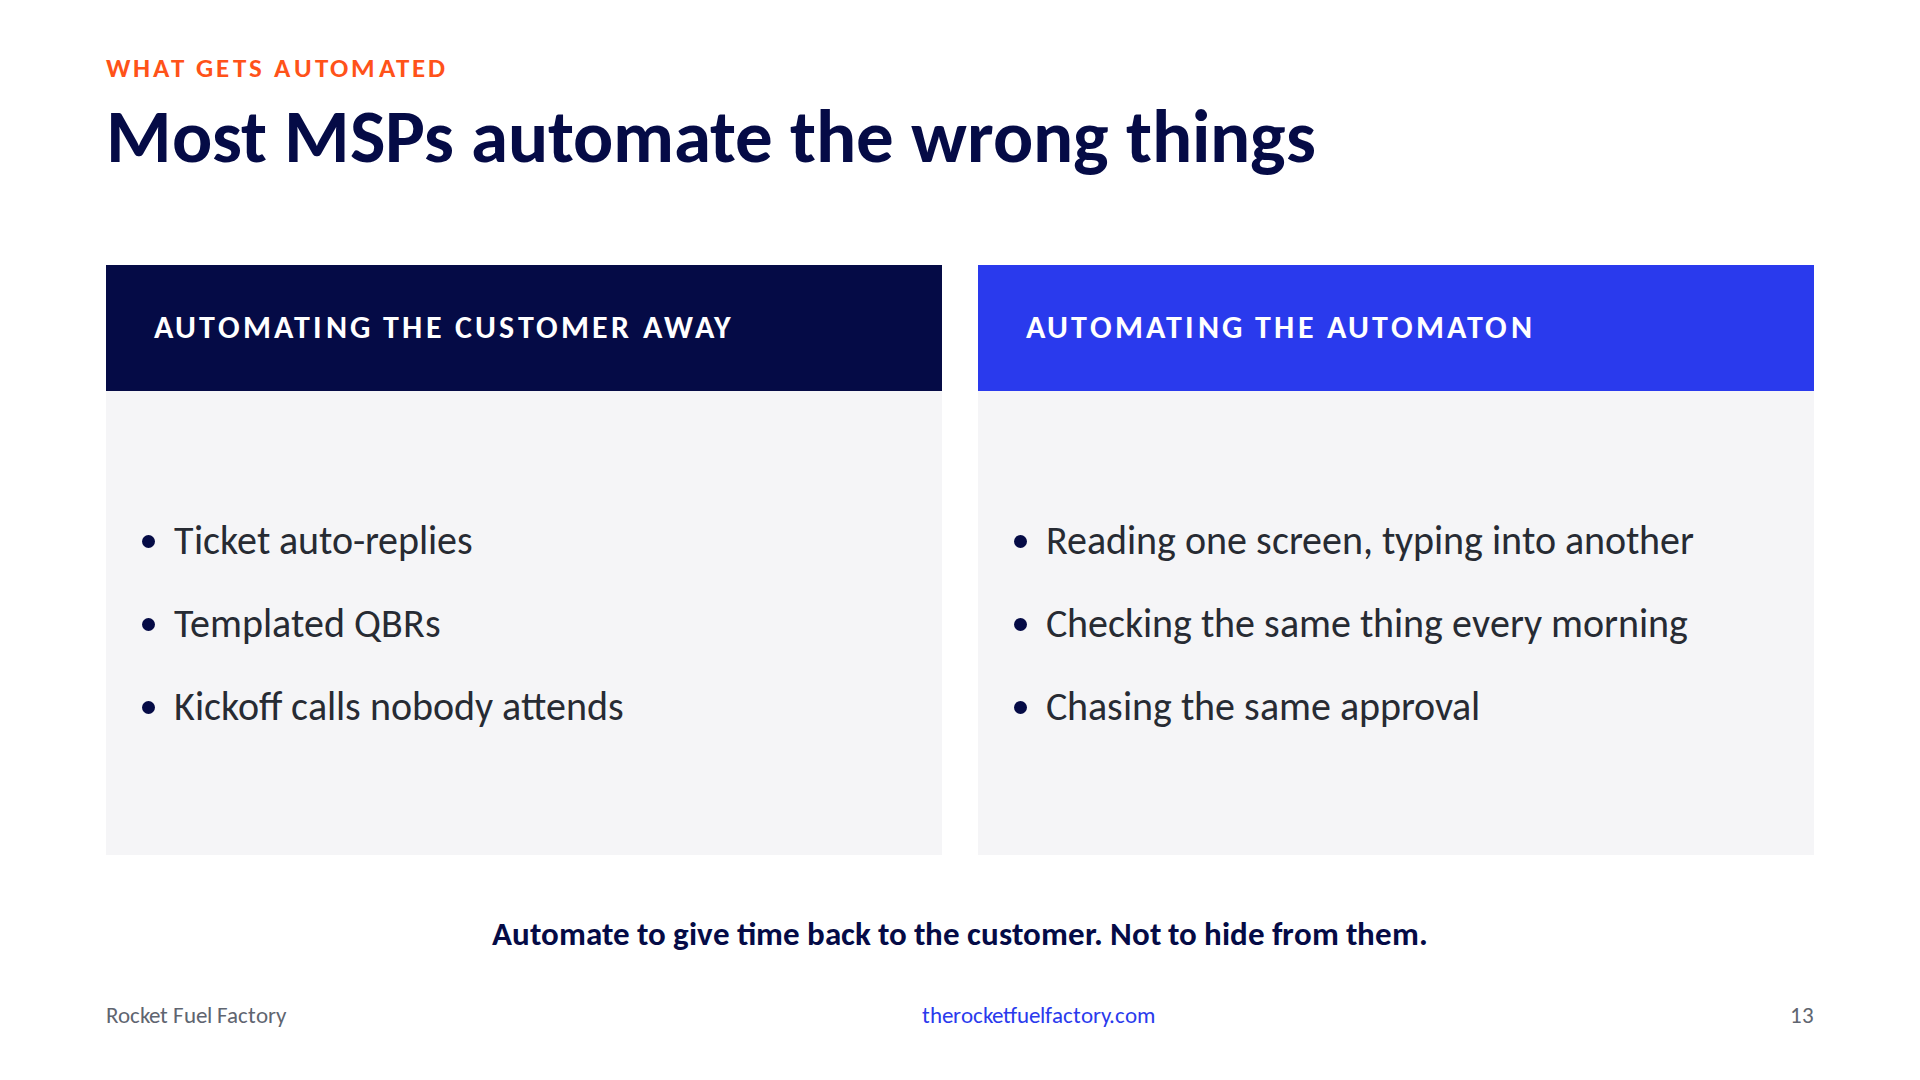
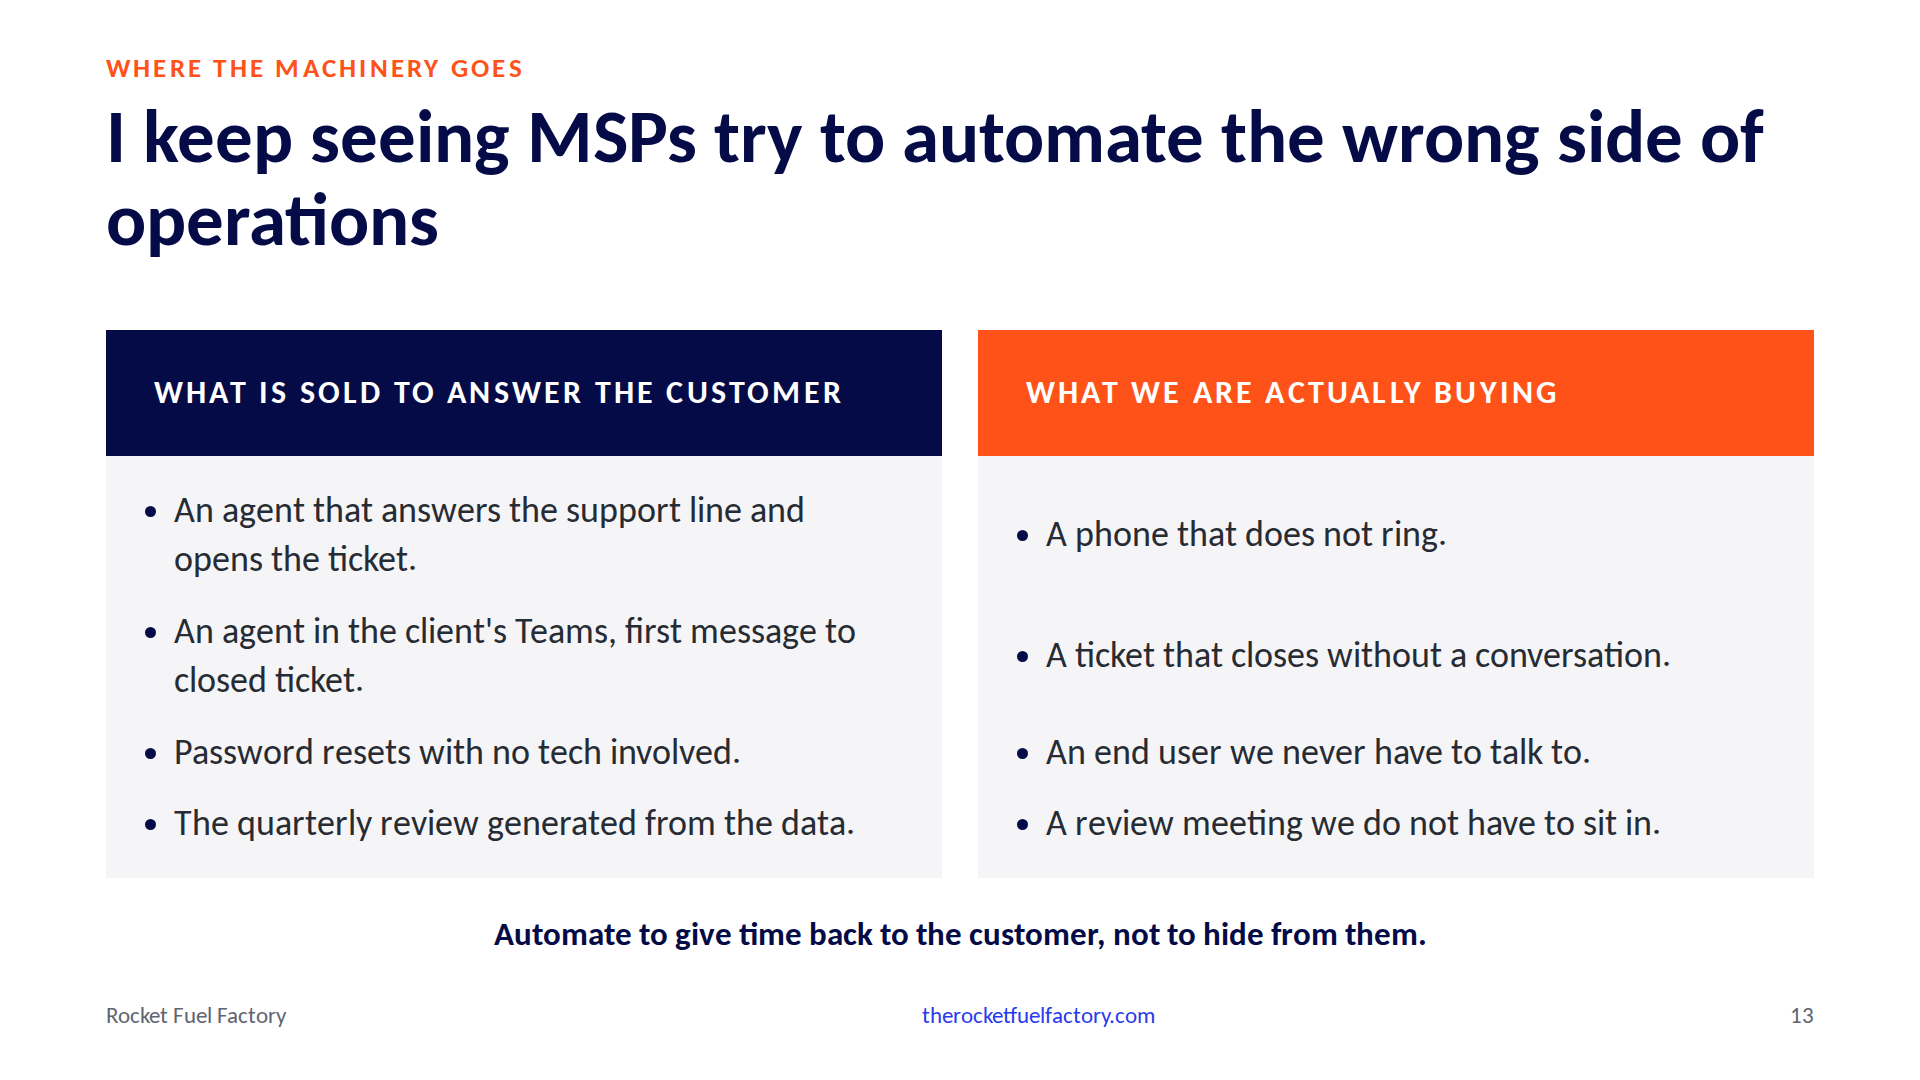
Slide 13: what is sold vs what we are buying, row-aligned comparison; note in spoken voice

diff --git a/src/data/notes.js b/src/data/notes.js
@@ -16,7 +16,7 @@ export const notes = {
   'demo-ask': 'Target 6:30. Here is what worked. We did not type try again, and we did not fix the email ourselves. We asked it what we should have told it in the first place. It gave us five things. Who is actually reading this, and what is their relationship to the outage. What on top of it was supposed to mean. Whether the Q2 detail was a feature or a liability. What tone. Whether there was a business ask riding along. We knew the answer to every one of those before we typed a word. We just never wrote them down. And it owned the leak. It called the Q2 sentence the single riskiest line in the ticket, said it could read either as we caught this or as we knew and did nothing, and admitted it had made that call for us without asking. It knew it was guessing. It will tell you, if you ask. Try this tonight on the last answer that disappointed you.',
   'aharons-law': 'Target 10:40. SLOW. We built computers to be automation machines, and most of us are afraid to actually automate anything with them. I think this is why. Aharon Chernin, who I work with, puts it this way: you can\'t automate a process that doesn\'t exist. I have been quoting that for years and it means something different to me every time. Here is what it means to me today. Having a process is not the same as having someone who knows how it is done. Most of what we call a process is the second thing. The first time you try to automate it, you find out which one you have, because the machine cannot ask what you meant. That is worth an afternoon even if nothing ships. Here is the same thing happening to a checklist instead of an email.',
   'exists-means-said-out-loud': 'Target 11:10. A client calls: one of their people is leaving on Friday. We have a checklist for that. It is a good one, six steps, and everyone follows it. Mike wrote it, and Mike is on vacation this week, so Chris covers for him and works down the list. One line says cancel software licenses, so Chris cancels Microsoft 365, ticks the box, and closes the ticket. Nothing looks wrong. A year later you reconcile the Adobe bill and find nine seats for people who no longer work there. Nobody skipped a step. To Mike, that line means Microsoft, Adobe, and the two tools he set up for that client, because he set them up. To Chris it means Microsoft. Same words, and the meaning lives in one person. This is the email again. On top of it meant something specific in one head and nothing specific anywhere else. Here is what that costs. Mike cannot take a vacation, because the process is him. Every departure gets handled twice, once wrong by Chris, once right by the expensive person. And the hire that covers for Mike is not for the work. It is insurance against a definition of done that lives in one person. The fix for that line is an hour. Sit down with Mike, ask him which licenses, and write it down. After that Chris can run it, and so can a machine. The problem is that it is one line on one list, and Mike owns forty lists like it. That is what doing more without adding bodies means: fewer people needed to make a process safe. It is true of any process that lives in one person, and it is why so many of us automate the wrong ones.',
-  'the-wrong-things': 'Target 13:10. The one that bristles. Some people in the room sell auto-replies and templated QBRs. Say it anyway: that is automating the customer away. Automate the automaton instead. Line to land: automate to give time back to the customer, not to hide from them. Bridge, before the click: once you have written the automaton work down, two different machines can take it. The next three slides are which one gets what. Click.',
+  'the-wrong-things': 'Target 13:10. So we have said the process out loud. Where do we point the machine? Here is what I keep seeing. On the left is what is being sold to MSPs right now, and it is being sold hard: an agent that answers the phone, an agent in the client\'s Teams, password resets nobody touches, a quarterly review that writes itself. On the right is what I think we are actually buying when we buy those. A phone that does not ring. A ticket that closes without a conversation. And if I am honest, I think we buy them because deep down a lot of us do not like talking to customers, or we are a little afraid to. The call is the part of the day where something can go wrong in front of someone. I am not saying the tools are bad. Some of them are very good at what they do. I am saying the aim is wrong. In the demo, the machine wrote the draft and I made the call to Dana. The machine never talked to her. That split is the whole point. The work that eats the day is on our side of the desk, reading one screen and typing into another, chasing the same approval, checking the same thing every morning, and that is the work nobody is going to miss doing. Point the machine there, and spend the hours you get back in front of the customer. Once that work is written down, there are two very different machines that can take it, and the next three slides are about which one gets what.',
   'divider-where-ai-belongs': 'Target 15:10. Transition. Speed is what these machines give you unconditionally. It exposes bad instructions instantly and executes them instantly. Fast is only a gift once you have said what good looks like.',
   'deterministic-vs-probabilistic': 'Target 15:40. Line to land: you already run a probabilistic system, it is called a tech at 4pm on a Tuesday. Read both columns aloud.',
   'guardrail-sandwich': 'Target 17:40. Callback to Right of Boom, two minutes not eight. Emphasize the check step. Land on: the AI never touches the customer or the record unguarded.',

diff --git a/src/components/layouts/ComparisonSlide.jsx b/src/components/layouts/ComparisonSlide.jsx
@@ -6,6 +6,24 @@ const COL_X = [106, 106 + COL_WIDTH + GAP]
 const HEADER_TOP = 265
 const HEADER_HEIGHT = 126
 const BODY_BOTTOM = 855
+const ACCENT_BG = { blue: 'bg-rff-blue', orange: 'bg-rff-orange', gold: 'bg-rff-gold' }
+const ACCENT_HEADER_TEXT = { blue: 'text-white', orange: 'text-white', gold: 'text-rff-navy' }
+
+function Row({ leftText, rightText, fontSize, first, last }) {
+  const pad = '0 48px 0 68px'
+  const cell = 'relative flex items-center leading-snug text-rff-body'
+  return (
+    <>
+      <div className={cell} style={{ padding: pad, fontSize }}>
+        <ul className="list-disc marker:text-rff-navy"><li>{leftText}</li></ul>
+      </div>
+      <div />
+      <div className={cell} style={{ padding: pad, fontSize }}>
+        <ul className="list-disc marker:text-rff-navy"><li>{rightText}</li></ul>
+      </div>
+    </>
+  )
+}
 
 export default function ComparisonSlide({
   eyebrow,
@@ -15,30 +33,59 @@ export default function ComparisonSlide({
   closing,
   accent = 'blue',
   slideNumber,
+  top = HEADER_TOP,
+  bottom = BODY_BOTTOM,
+  fontSize = 40,
+  itemGap = 28,
+  aligned = false,
 }) {
   const panels = [
-    { data: left, headerBg: 'bg-rff-navy' },
-    { data: right, headerBg: 'bg-rff-blue' },
+    { data: left, headerBg: 'bg-rff-navy', headerText: 'text-white' },
+    { data: right, headerBg: ACCENT_BG[accent], headerText: ACCENT_HEADER_TEXT[accent] },
   ]
   return (
     <ContentFrame eyebrow={eyebrow} title={title} accent={accent} slideNumber={slideNumber}>
       {panels.map((panel, i) => (
-        <div key={i} className="absolute" style={{ left: COL_X[i], top: HEADER_TOP, width: COL_WIDTH }}>
+        <div key={i} className="absolute" style={{ left: COL_X[i], top, width: COL_WIDTH }}>
           <div className={`flex items-center p-[48px] ${panel.headerBg}`} style={{ height: HEADER_HEIGHT }}>
-            <p className="text-[32px] font-bold uppercase tracking-[0.1em] text-white">{panel.data.heading}</p>
+            <p className={`text-[32px] font-bold uppercase tracking-[0.1em] ${panel.headerText}`}>{panel.data.heading}</p>
           </div>
+          {!aligned && (
           <ul
-            className="flex flex-col justify-center list-disc bg-rff-light p-[48px] pl-[68px] text-[40px] leading-snug text-rff-body marker:text-rff-navy"
-            style={{ height: BODY_BOTTOM - HEADER_TOP - HEADER_HEIGHT }}
+            className="flex flex-col justify-center list-disc bg-rff-light p-[48px] pl-[68px] leading-snug text-rff-body marker:text-rff-navy"
+            style={{ height: bottom - top - HEADER_HEIGHT, fontSize }}
           >
             {panel.data.items.map((item, j) => (
-              <li key={j} className="mt-[28px] first:mt-0">
+              <li key={j} className="first:mt-0" style={{ marginTop: j === 0 ? 0 : itemGap }}>
                 {item}
               </li>
             ))}
           </ul>
+          )}
         </div>
       ))}
+      {aligned && (
+        <div
+          className="absolute grid"
+          style={{
+            left: 106,
+            top: top + HEADER_HEIGHT,
+            width: 1708,
+            height: bottom - top - HEADER_HEIGHT,
+            gridTemplateColumns: `${COL_WIDTH}px ${GAP}px ${COL_WIDTH}px`,
+            gridAutoRows: 'auto',
+            rowGap: itemGap,
+            alignContent: 'center',
+            padding: '40px 0',
+          }}
+        >
+          <div className="absolute inset-y-0 bg-rff-light" style={{ left: 0, width: COL_WIDTH }} />
+          <div className="absolute inset-y-0 bg-rff-light" style={{ left: COL_WIDTH + GAP, width: COL_WIDTH }} />
+          {left.items.map((item, j) => (
+            <Row key={j} leftText={item} rightText={right.items[j]} fontSize={fontSize} first={j === 0} last={j === left.items.length - 1} />
+          ))}
+        </div>
+      )}
       {closing && (
         <p
           className="absolute text-center text-[33px] font-bold text-rff-navy"

diff --git a/src/components/slides/013-TheWrongThings.jsx b/src/components/slides/013-TheWrongThings.jsx
@@ -1,22 +1,41 @@
 import ComparisonSlide from '../layouts/ComparisonSlide'
 
-// The opinion most likely to bristle. Keep the examples; they make it an opinion.
+// Tim's honest take: automation gets pointed at the customer because, deep
+// down, we would rather not have the conversation. Left: what is actually
+// being sold to MSPs in 2026 to stand between them and the customer
+// (generalized from vendor pitches, see the 14 Sep research in the session
+// notes; no brand names). Right: the reason, said in "we". Footer: his line.
 export default function TheWrongThings({ slideNumber }) {
   return (
     <ComparisonSlide
-      eyebrow="What gets automated"
-      title="Most MSPs automate the wrong things"
+      eyebrow="Where the machinery goes"
+      title="I keep seeing MSPs try to automate the wrong side of operations"
       accent="orange"
       slideNumber={slideNumber}
+      top={330}
+      bottom={878}
+      fontSize={36}
+      itemGap={22}
+      aligned
       left={{
-        heading: 'Automating the customer away',
-        items: ['Ticket auto-replies', 'Templated QBRs', 'Kickoff calls nobody attends'],
+        heading: 'What is sold to answer the customer',
+        items: [
+          'An agent that answers the support line and opens the ticket.',
+          'An agent in the client\'s Teams, first message to closed ticket.',
+          'Password resets with no tech involved.',
+          'The quarterly review generated from the data.',
+        ],
       }}
       right={{
-        heading: 'Automating the automaton',
-        items: ['Reading one screen, typing into another', 'Checking the same thing every morning', 'Chasing the same approval'],
+        heading: 'What we are actually buying',
+        items: [
+          'A phone that does not ring.',
+          'A ticket that closes without a conversation.',
+          'An end user we never have to talk to.',
+          'A review meeting we do not have to sit in.',
+        ],
       }}
-      closing="Automate to give time back to the customer. Not to hide from them."
+      closing="Automate to give time back to the customer, not to hide from them."
     />
   )
 }
